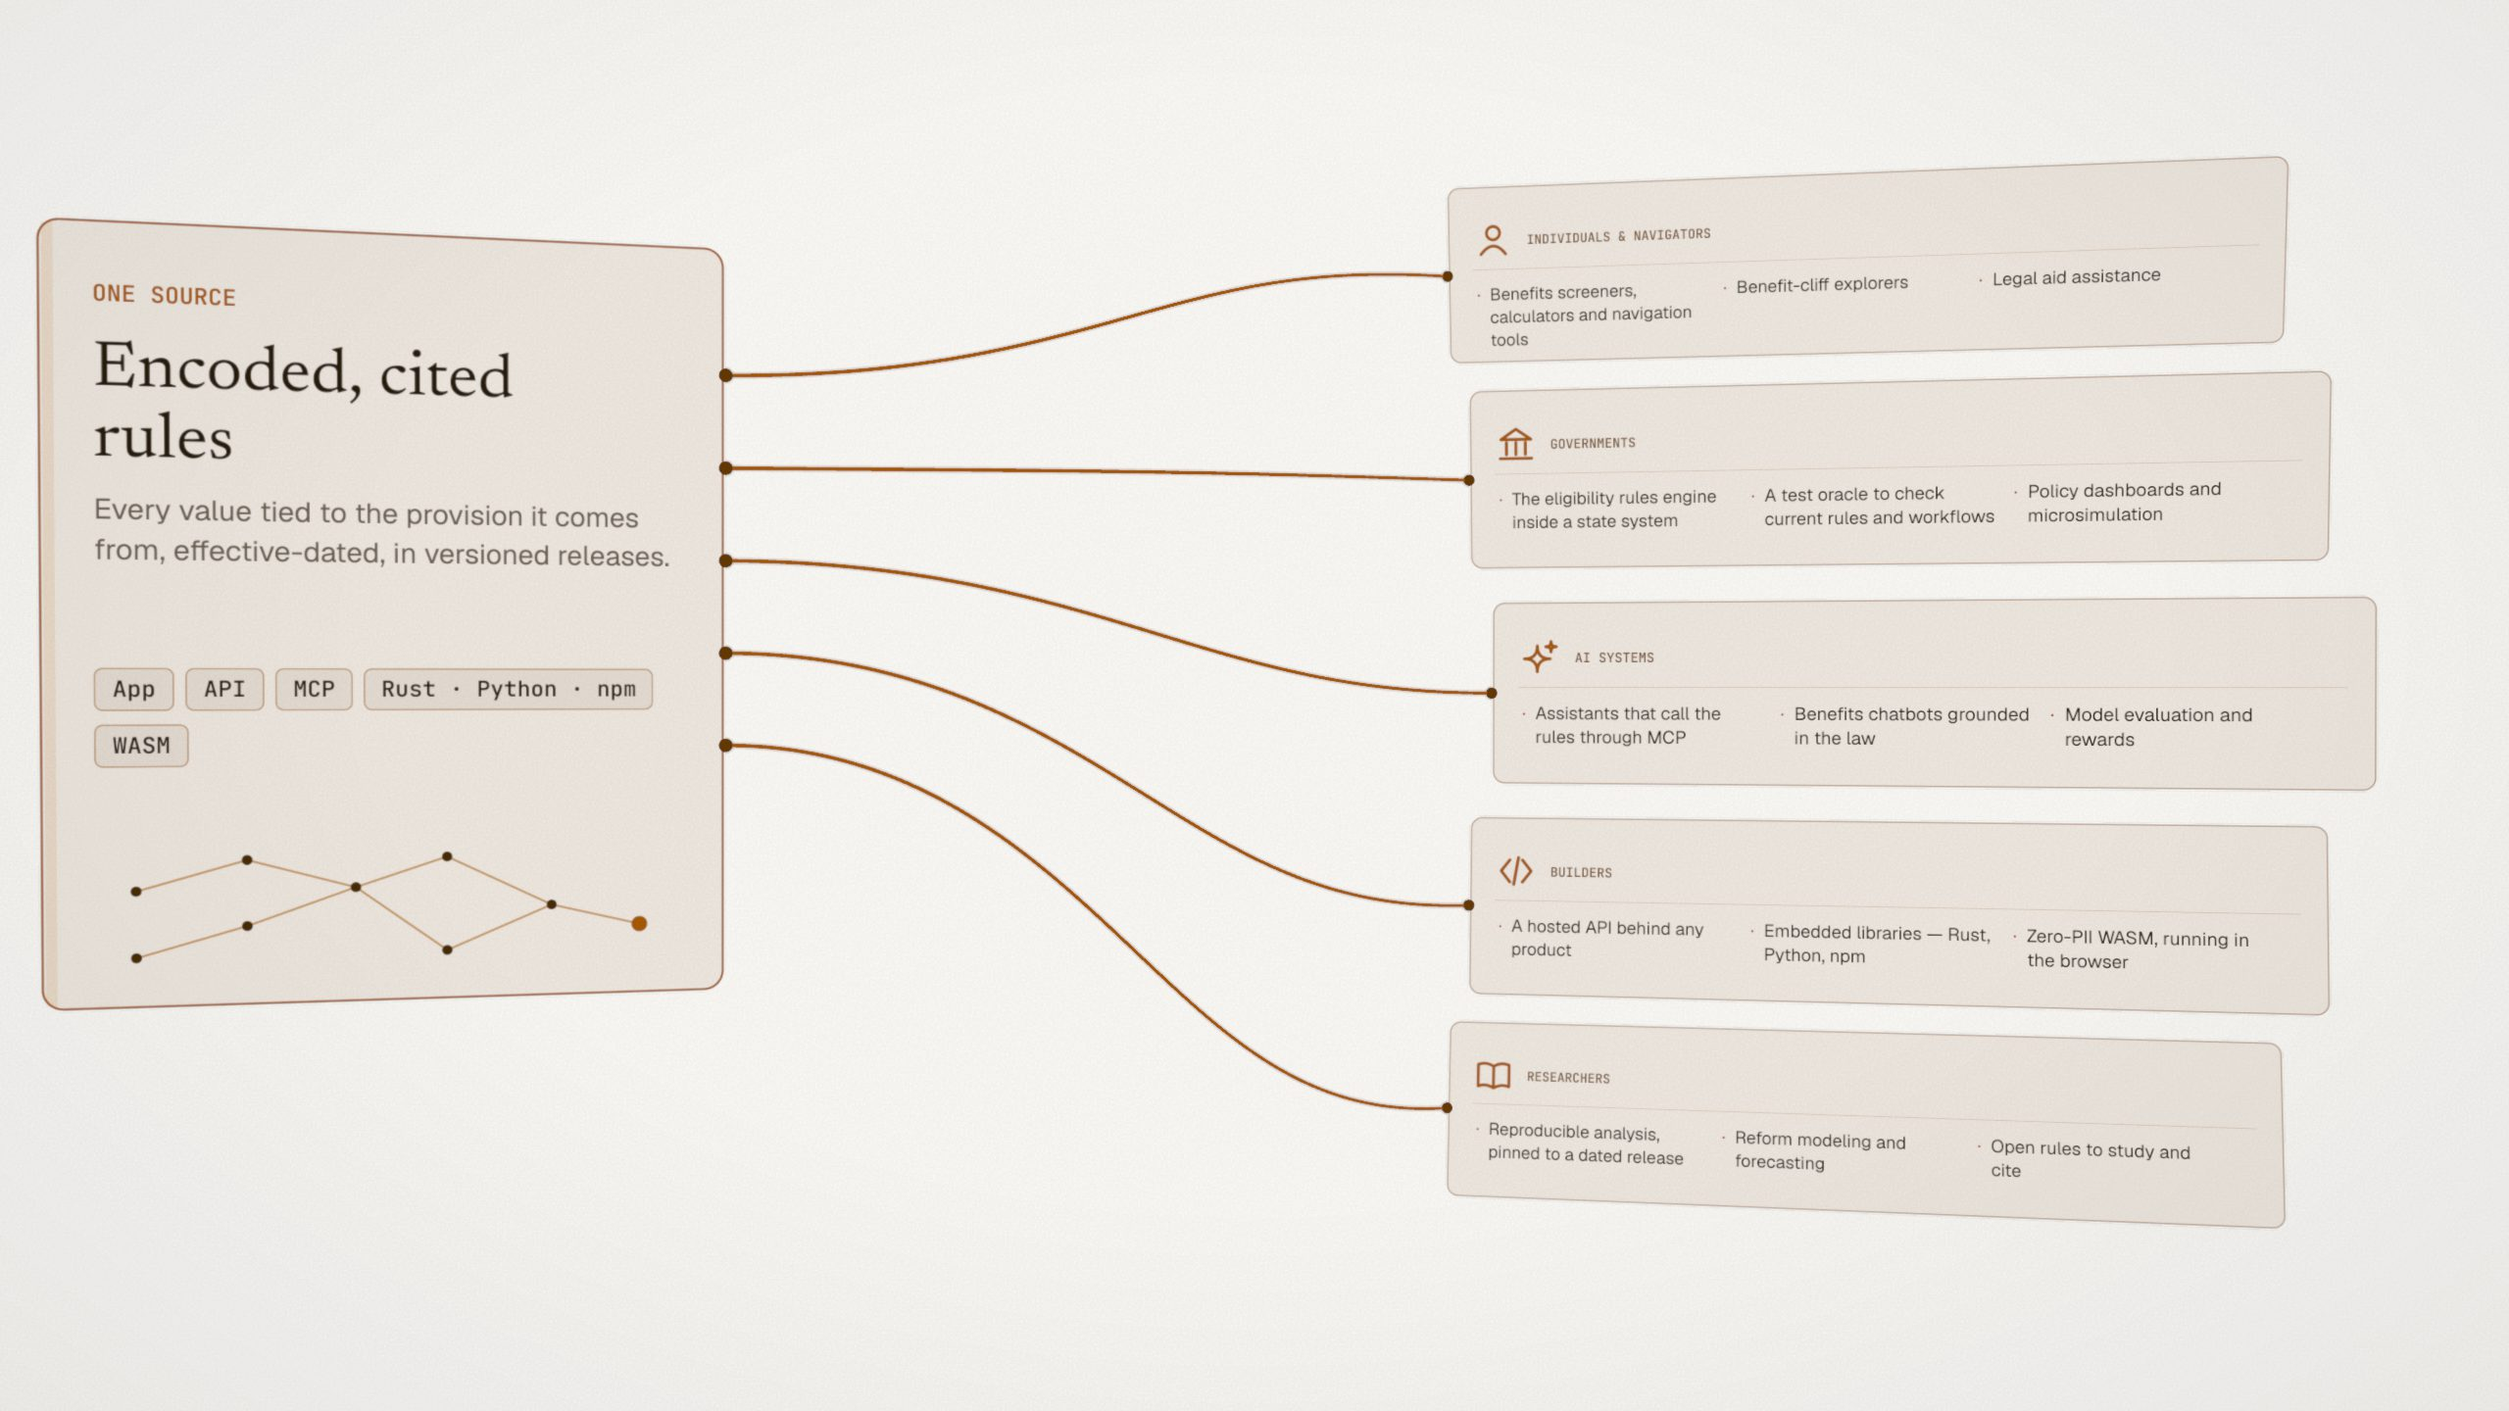
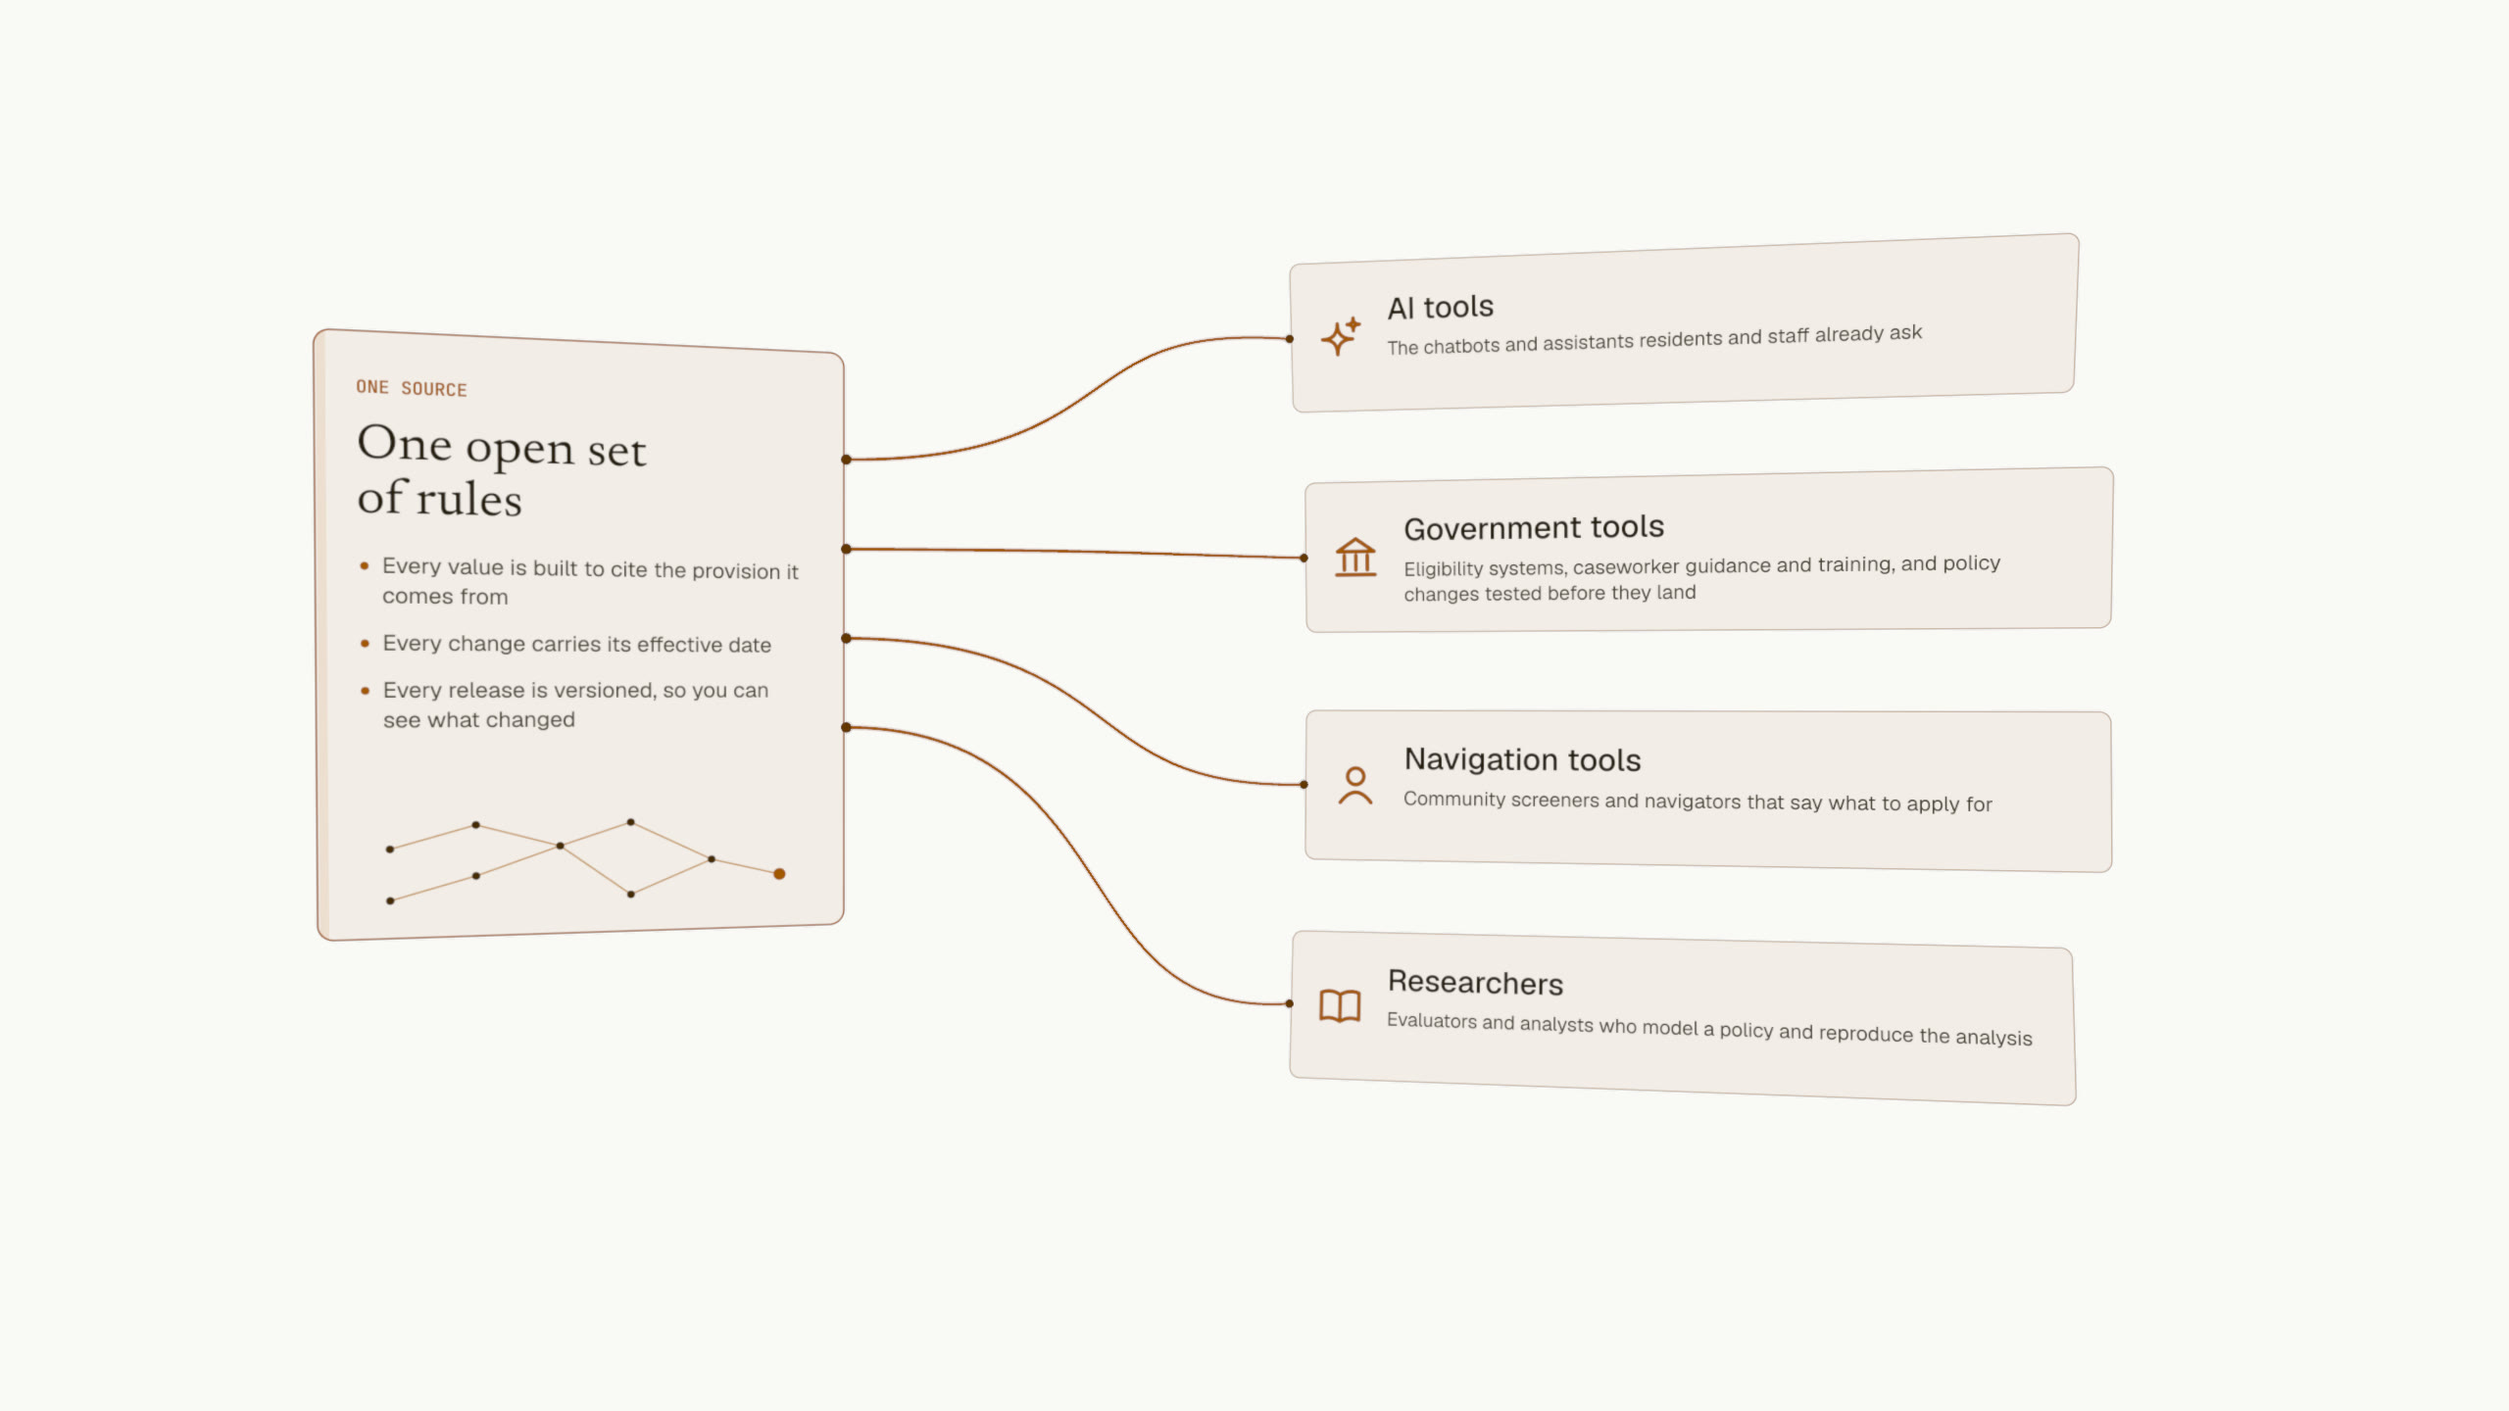
Journey 8/8: the Aspen deck's four groups, and a video of the film
The last scene now matches the Aspen deck's rules slide: one open set of
rules, with the deck's three traits, feeding AI tools, government tools
and navigation tools, each with the deck's one line. Researchers are the
fourth group. Each card has one name and one line, set large enough to
read on a screen across a room. The paper poster and thumb for beat 8 are
new; the night stills (?night=1) still show the five groups.

scripts/record-journey-video.mjs records the film to an MP4 for decks
that can only play a video (Google Slides): it draws each frame of
/preview/journey-video at the presenter's pace in the installed Chrome
and pipes screenshots to ffmpeg, so no frame drops.

diff --git a/src/components/landing/style-frames/lamplight2.ts b/src/components/landing/style-frames/lamplight2.ts
@@ -1194,16 +1194,23 @@ export function lamplightBeat6(ctx: BeatCtx): BeatSpec {
 }
 
 // ── beat 8: one set of rules powers every kind of tool ──────────────
-// After the RaC Guild deck's OneSourceSlide (axiom-slides, 2026-10-06):
-// one source card fans out to the five kinds of user, each with the
-// slide's three uses.
+// After the Aspen deck's rules slide (src/components/aspen/presenter-app.tsx,
+// RulesSlide, Oct 26): one open set of rules feeds AI, government and
+// navigation tools, each with one line on what it is. Researchers are the
+// fourth group here (Nov 6).
 
-const GROUPS: Array<{ icon: "person" | "bank" | "spark" | "code" | "book"; who: string; items: string[] }> = [
-  { icon: "person", who: "Individuals & navigators", items: ["Benefits screeners, calculators and navigation tools", "Benefit-cliff explorers", "Legal aid assistance"] },
-  { icon: "bank", who: "Governments", items: ["The eligibility rules engine inside a state system", "A test oracle to check current rules and workflows", "Policy dashboards and microsimulation"] },
-  { icon: "spark", who: "AI systems", items: ["Assistants that call the rules through MCP", "Benefits chatbots grounded in the law", "Model evaluation and rewards"] },
-  { icon: "code", who: "Builders", items: ["A hosted API behind any product", "Embedded libraries — Rust, Python, npm", "Zero-PII WASM, running in the browser"] },
-  { icon: "book", who: "Researchers", items: ["Reproducible analysis, pinned to a dated release", "Reform modeling and forecasting", "Open rules to study and cite"] },
+const GROUPS: Array<{ icon: "person" | "bank" | "spark" | "code" | "book"; who: string; detail: string }> = [
+  { icon: "spark", who: "AI tools", detail: "The chatbots and assistants residents and staff already ask" },
+  { icon: "bank", who: "Government tools", detail: "Eligibility systems, caseworker guidance and training, and policy changes tested before they land" },
+  { icon: "person", who: "Navigation tools", detail: "Community screeners and navigators that say what to apply for" },
+  { icon: "book", who: "Researchers", detail: "Evaluators and analysts who model a policy and reproduce the analysis" },
+];
+
+// what makes the one set of rules checkable, as on the deck's rules box
+const TRAITS = [
+  "Every value is built to cite the provision it comes from",
+  "Every change carries its effective date",
+  "Every release is versioned, so you can see what changed",
 ];
 
 function icon(g: CanvasRenderingContext2D, kind: string, x: number, y: number, s: number) {
@@ -1307,33 +1314,20 @@ export function lamplightBeat7(ctx: BeatCtx): BeatSpec {
     g.fillText("ONE SOURCE", 70, 110);
     g.fillStyle = "#f6ead8";
     g.font = `400 86px ${serif}`;
-    g.fillText("Encoded, cited", 70, 222);
-    g.fillText("rules", 70, 316);
-    g.fillStyle = "rgba(246, 234, 216, 0.68)";
+    g.fillText("One open set", 70, 222);
+    g.fillText("of rules", 70, 316);
+    // the three traits, each on a plain bullet: they say how the rules are
+    // built, not work that is finished
     g.font = `400 38px ${sans}`;
-    wrapLines(g, "Every value tied to the provision it comes from, effective-dated, in versioned releases.", SWpx - 140).forEach((ln, i) =>
-      g.fillText(ln, 70, 400 + i * 54),
-    );
-    // the delivery channels, as chips
-    let x = 70;
-    let y = 600;
-    g.font = `500 30px ${mono}`;
-    ["App", "API", "MCP", "Rust · Python · npm", "WASM"].forEach((c) => {
-      const w = g.measureText(c).width + 44;
-      if (x + w > SWpx - 60) {
-        x = 70;
-        y += 76;
-      }
+    let y = 420;
+    TRAITS.forEach((trait) => {
+      g.fillStyle = "#ffb45c";
       g.beginPath();
-      g.roundRect(x, y, w, 56, 10);
-      g.fillStyle = "rgba(255, 225, 190, 0.06)";
+      g.arc(82, y - 12, 7, 0, Math.PI * 2);
       g.fill();
-      g.strokeStyle = "rgba(255, 190, 120, 0.45)";
-      g.lineWidth = 2;
-      g.stroke();
-      g.fillStyle = "#f6ead8";
-      g.fillText(c, x + 22, y + 38);
-      x += w + 16;
+      g.fillStyle = "rgba(246, 234, 216, 0.82)";
+      wrapLines(g, trait, SWpx - 180).forEach((ln, i) => g.fillText(ln, 110, y + i * 52));
+      y += wrapLines(g, trait, SWpx - 180).length * 52 + 30;
     });
     // a glimpse of the graph the rules form
     const nodes = [[120, 900], [120, 990], [260, 860], [260, 950], [400, 900], [520, 860], [520, 990], [660, 930], [780, 960]];
@@ -1374,43 +1368,35 @@ export function lamplightBeat7(ctx: BeatCtx): BeatSpec {
   glow.lookAt(camera.position);
   fx.add(glow);
 
-  // the five kinds of user, on a shallow arc. Sized a fifth larger than
-  // the fan was first drawn, into the margin the frame already had, so the
-  // three uses on each card read from the back of a room (Oct 26).
+  // the four kinds of tool, on a shallow arc: each card a name and the
+  // one line under it, large enough to read from the back of a room
+  const N = GROUPS.length;
   const GWpx = 1900;
-  const GHpx = 420;
+  const GHpx = 380;
   const GW = 4.8;
   const GH = (GHpx / GWpx) * GW;
-  const ys = [3.07, 1.81, 0.55, -0.71, -1.97];
+  const ys = [2.85, 1.42, -0.01, -1.44];
   const groupCards: THREE.Mesh[] = [];
   const beams: Array<{ beam: THREE.Mesh; df: THREE.Mesh; dt: THREE.Mesh; packet: THREE.Mesh; c: THREE.Curve<THREE.Vector3> }> = [];
   const r = rng(88);
   GROUPS.forEach((grp, i) => {
     const tex = glass(GWpx, GHpx, (g) => {
-      icon(g, grp.icon, 110, 128, 92);
-      g.fillStyle = "rgba(255, 210, 160, 0.82)";
-      g.font = `500 30px ${mono}`;
-      g.fillText(grp.who.toUpperCase(), 190, 140);
-      g.fillStyle = "rgba(255, 190, 120, 0.18)";
-      g.fillRect(60, 196, GWpx - 120, 2);
-      const colW = (GWpx - 160) / 3;
-      g.font = `400 40px ${sans}`;
-      grp.items.forEach((it, k) => {
-        const x = 70 + k * colW;
-        g.fillStyle = "#ffb45c";
-        g.fillText("·", x, 270);
-        g.fillStyle = "#f2e6d4";
-        wrapLines(g, it, colW - 70).forEach((ln, li) => g.fillText(ln, x + 30, 270 + li * 54));
-      });
+      icon(g, grp.icon, 130, GHpx / 2, 120);
+      g.fillStyle = "#f6ead8";
+      g.font = `500 76px ${sans}`;
+      g.fillText(grp.who, 250, 150);
+      g.fillStyle = "rgba(242, 230, 212, 0.86)";
+      g.font = `400 48px ${sans}`;
+      wrapLines(g, grp.detail, GWpx - 320).slice(0, 2).forEach((ln, li) => g.fillText(ln, 250, 238 + li * 62));
     });
     const m = cardMesh(tex, GW, GH, 1.0);
     groupCards.push(m);
-    m.position.set(3.8, ys[i], -0.32 * Math.abs(i - 2));
+    m.position.set(3.8, ys[i], -0.32 * Math.abs(i - (N - 1) / 2));
     m.lookAt(camera.position);
     scene.add(m);
     m.updateMatrixWorld();
     // the fan: one beam per group, leaving the source in the same order
-    const from = source.localToWorld(new THREE.Vector3(SW / 2, (0.5 - (i + 0.5) / 5) * SH * 0.62 + SH * 0.08, 0.01));
+    const from = source.localToWorld(new THREE.Vector3(SW / 2, (0.5 - (i + 0.5) / N) * SH * 0.62 + SH * 0.08, 0.01));
     const to = m.localToWorld(new THREE.Vector3(-GW / 2, 0, 0.01));
     const c = new THREE.CubicBezierCurve3(from, from.clone().add(new THREE.Vector3(1.5, 0, 0.25)), to.clone().add(new THREE.Vector3(-1.5, 0, 0.2)), to);
     const beam = wire(c, 0.008, "#ffb45c", 2.0);
@@ -1420,10 +1406,9 @@ export function lamplightBeat7(ctx: BeatCtx): BeatSpec {
     scene.add(beam, df, dt, packet);
     beams.push({ beam, df, dt, packet, c });
     const GROUP_LINKS: Array<[string, string]> = [
-      ["/demos", "Try a screener built on the rules"],
-      ["/validation", "See how the rules are checked"],
       ["/docs", "Connect an assistant over MCP"],
-      ["/docs", "Use the API and libraries"],
+      ["/validation", "See how the rules are checked"],
+      ["/demos", "Try a screener built on the rules"],
       ["/coverage", "See what the rules cover"],
     ];
     ctx.link(m, GROUP_LINKS[i][0], GROUP_LINKS[i][1], { when: [0.4 + i * 0.1, 1.4] });

diff --git a/src/app/preview/journey-video/stage.tsx b/src/app/preview/journey-video/stage.tsx
@@ -1,0 +1,87 @@
+"use client";
+
+import { useEffect, useRef } from "react";
+import { CAPTIONS, STORY_LABEL } from "@/components/landing/journey-lamplight/captions";
+import { captionOpacity, STORY_END_MS, storyAtTime } from "@/components/landing/journey-lamplight/clock";
+import "@/components/landing/style-frames/style-frames.css";
+import "@/components/landing/journey-lamplight/journey-lamplight.css";
+
+declare global {
+  interface Window {
+    /** Resolves once every scene is built and the first frame is drawn. */
+    __journeyReady?: Promise<void>;
+    /** Draws the frame `ms` into the story at the presenter's pace, captions included. */
+    __journeyFrame?: (ms: number) => void;
+    /** How long the story plays at the presenter's pace, in ms. */
+    __journeyMs?: number;
+  }
+}
+
+/**
+ * The Aspen slide's stage (src/components/aspen/journey-slide.tsx) on the
+ * whole window, with no clock of its own: the recorder sets story time
+ * for each frame and takes a screenshot.
+ */
+export function JourneyVideoStage() {
+  const stage = useRef<HTMLDivElement>(null);
+  const canvas = useRef<HTMLCanvasElement>(null);
+  const overlays = useRef<HTMLDivElement[]>([]);
+  const caps = useRef<HTMLDivElement[]>([]);
+
+  useEffect(() => {
+    let dispose = () => {};
+    window.__journeyReady = (async () => {
+      const el = stage.current!;
+      const { createDirector } = await import("@/components/landing/journey-lamplight/director");
+      const director = await createDirector({
+        canvas: canvas.current!,
+        overlays: overlays.current,
+        width: el.clientWidth,
+        height: el.clientHeight,
+        paper: true,
+      });
+      dispose = director.dispose;
+      await director.prepareAll();
+      window.__journeyMs = STORY_END_MS;
+      window.__journeyFrame = (ms: number) => {
+        const P = storyAtTime(ms);
+        caps.current.forEach((c, j) => (c.style.opacity = String(Math.max(0.001, captionOpacity(P, j)))));
+        director.jump(P);
+      };
+      window.__journeyFrame(0);
+    })();
+    return () => dispose();
+  }, []);
+
+  return (
+    <div
+      ref={stage}
+      className="jl-stage sf--lamplight jl-stage--paper is-drawn"
+      style={{ position: "fixed", inset: 0, zIndex: 1000, background: "var(--color-paper)", color: "var(--color-ink)" }}
+    >
+      {/* the site header and the dev build's badge are not part of the picture */}
+      <style>{"nextjs-portal, .nav-bar { display: none !important; }"}</style>
+      <canvas ref={canvas} className="jl-canvas is-ready" role="img" aria-label={STORY_LABEL} />
+      {CAPTIONS.map((_, i) => (
+        <div
+          key={i}
+          className="jl-overlay"
+          ref={(el) => {
+            if (el) overlays.current[i] = el;
+          }}
+        />
+      ))}
+      {CAPTIONS.map((c, i) => (
+        <div
+          key={c.kicker}
+          className="jl-cap"
+          ref={(el) => {
+            if (el) caps.current[i] = el;
+          }}
+        >
+          <span className="jl-title">{c.title}</span>
+        </div>
+      ))}
+    </div>
+  );
+}

diff --git a/src/components/landing/journey-lamplight/journey-lamplight.tsx b/src/components/landing/journey-lamplight/journey-lamplight.tsx
@@ -39,7 +39,7 @@ const ALT = [
   "Section 2017(a) beside its encoding in rulespec-us, us/statutes/7/2017/a.yaml. Numbered threads join each phrase to the line that encodes it; “30 per centum” joins 0.30.",
   "The rules of section 2017(a) as a graph of cards. Test case 1’s values run along the wires to snap_regular_month_allotment, $182.",
   "The runtime registry’s packages as clusters of light, with their counts; the eight rules of section 2017(a) are a small amber cluster in front.",
-  "One source card, encoded and cited rules, sends beams to five kinds of user: individuals and navigators, governments, AI systems, builders, and researchers.",
+  "One source card, one open set of rules, sends beams to four kinds of tool: AI tools, government tools, navigation tools, and researchers.",
 ];
 
 function ExploreCards({ compact = false }: { compact?: boolean }) {

diff --git a/src/app/preview/journey-video/page.tsx b/src/app/preview/journey-video/page.tsx
@@ -1,0 +1,8 @@
+import { JourneyVideoStage } from "./stage";
+
+// The encoding journey drawn one frame at a time for a video file
+// (scripts/record-journey-video.mjs). Not linked; the preview layout
+// keeps it out of search.
+export default function JourneyVideoPage() {
+  return <JourneyVideoStage />;
+}
